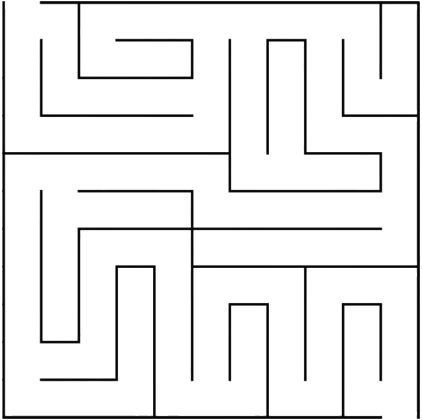
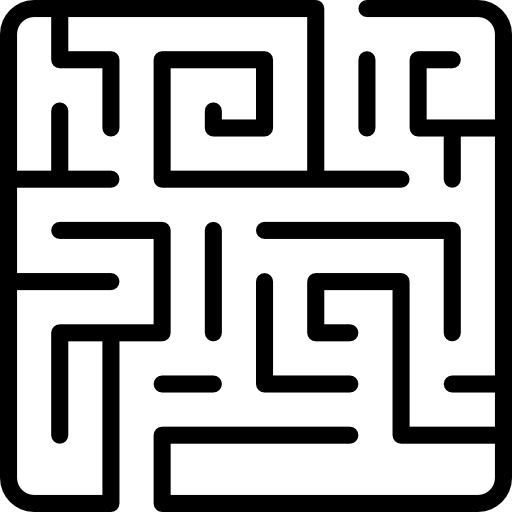
FIX: Working with new structure

diff --git a/src/camera.cpp b/src/camera.cpp
@@ -131,9 +131,9 @@ void traiterCamera(cv::VideoCapture& cap, ProcessedFrame& data) {
             // S'assurer que les coordonnées sont dans les limites
             if(ccx >= 0 && ccx < lab.image.cols && ccy >= 0 && ccy < lab.image.rows && game.getLabyrinthStatus()) {
                 if(game.getStatus() == GameStatus::NOT_PLAYING) {
-                    if(ccx<startbox.x+30 && ccx>=startbox.x && ccy<startbox.y+30 && ccy>=startbox.y) {
+                    if(ccx<startbox.x+30 & ccx>=startbox.x & ccy<startbox.y+30 & ccy>=startbox.y) {
                         std::cout << "STARTBOX ! " << std::endl;
-                        game.startGame();
+                        game.enterStartBox();
                         std::cout << "DANS LA START BOX" << std::endl;
                     }
                     else {
@@ -142,7 +142,7 @@ void traiterCamera(cv::VideoCapture& cap, ProcessedFrame& data) {
                     }
                 }
 
-                else{if(ccx<endbox.x+30 && ccx>=endbox.x && ccy<endbox.y+30 && ccy>=endbox.y) {
+                else{if(ccx<endbox.x+30 & ccx>=endbox.x & ccy<endbox.y+30 & ccy>=endbox.y) {
                         std::cout << "ENDBOX ! " << std::endl;
                         game.enterEndBox();
 
@@ -150,12 +150,10 @@ void traiterCamera(cv::VideoCapture& cap, ProcessedFrame& data) {
                 }
                 // Si le pixel est noir (mur), c'est une collision
                 if (lab.image.at<uchar>(ccy, ccx) < 128) {
-                    std::cout << "PERDU ! Collision avec un mur" << std::endl;
                     if(game.getStatus() == GameStatus::PLAYING) {
-                        game.touchWall(); // Mettre à jour le statut pour indiquer une collision
-                    } else {
-                        game.startGame(); // Pas de collision
-                    }   
+                        std::cout << "PERDU ! Collision avec un mur" << std::endl;
+                        game.touchWall(); // si on touche un mur
+                    }
                     // Option : retour au début
                     // consigne.x = lab.startPos.x;
                     // consigne.y = lab.startPos.y;

diff --git a/src/display.cpp b/src/display.cpp
@@ -282,7 +282,7 @@ int display(GameSession& game) {
                 window.draw(startText);
             }
 
-            if (game.getLabyrinthStatus() && !(game.getStatus() == GameStatus::NOT_PLAYING)) {
+            if (game.getLabyrinthStatus() && (game.getStatus() == GameStatus::NOT_PLAYING)) {
                 bouclestart = 0;
             }
             
@@ -337,7 +337,7 @@ int display(GameSession& game) {
                 startText.setPosition({100.f, basey + 200.f});
                 window.draw(startText);
             }
-            if (game.getLabyrinthStatus()==true && game.getWallTouched()) {
+            if (game.getWallTouched()) {
                 sf::Text endText(font);
                 endText.setString("!!GAME OVER!!");
                 endText.setStyle(sf::Text::Bold);
@@ -360,11 +360,8 @@ int display(GameSession& game) {
                     window.draw(gifSprite);
                     playingsound = true;
                     soundnumber = rand() % 2 + 1; // Tirage aléatoire entre 1 et 2 pour le son
-                    game.setLabyrinthStatus(false);
-                    game.idleGame();
-                    //// regrouper sur une seule commadne ?
-                    status=0;
                     playText.setString("Jouer");
+                    game.reset();
                     
                 }
             }

diff --git a/src/display.hpp b/src/display.hpp
@@ -84,7 +84,6 @@ public:
     }
 
     void touchWall() {
-        isLabyrinthDisplayed = false;
         if (status == GameStatus::PLAYING) {
             isWallTouched = true;
         }
@@ -92,8 +91,8 @@ public:
 
     void reset() {
         isLabyrinthDisplayed = false;
-        isPageOpened = false;
         status = GameStatus::NOT_PLAYING;
+        isWallTouched = false;
     }
 };
 
